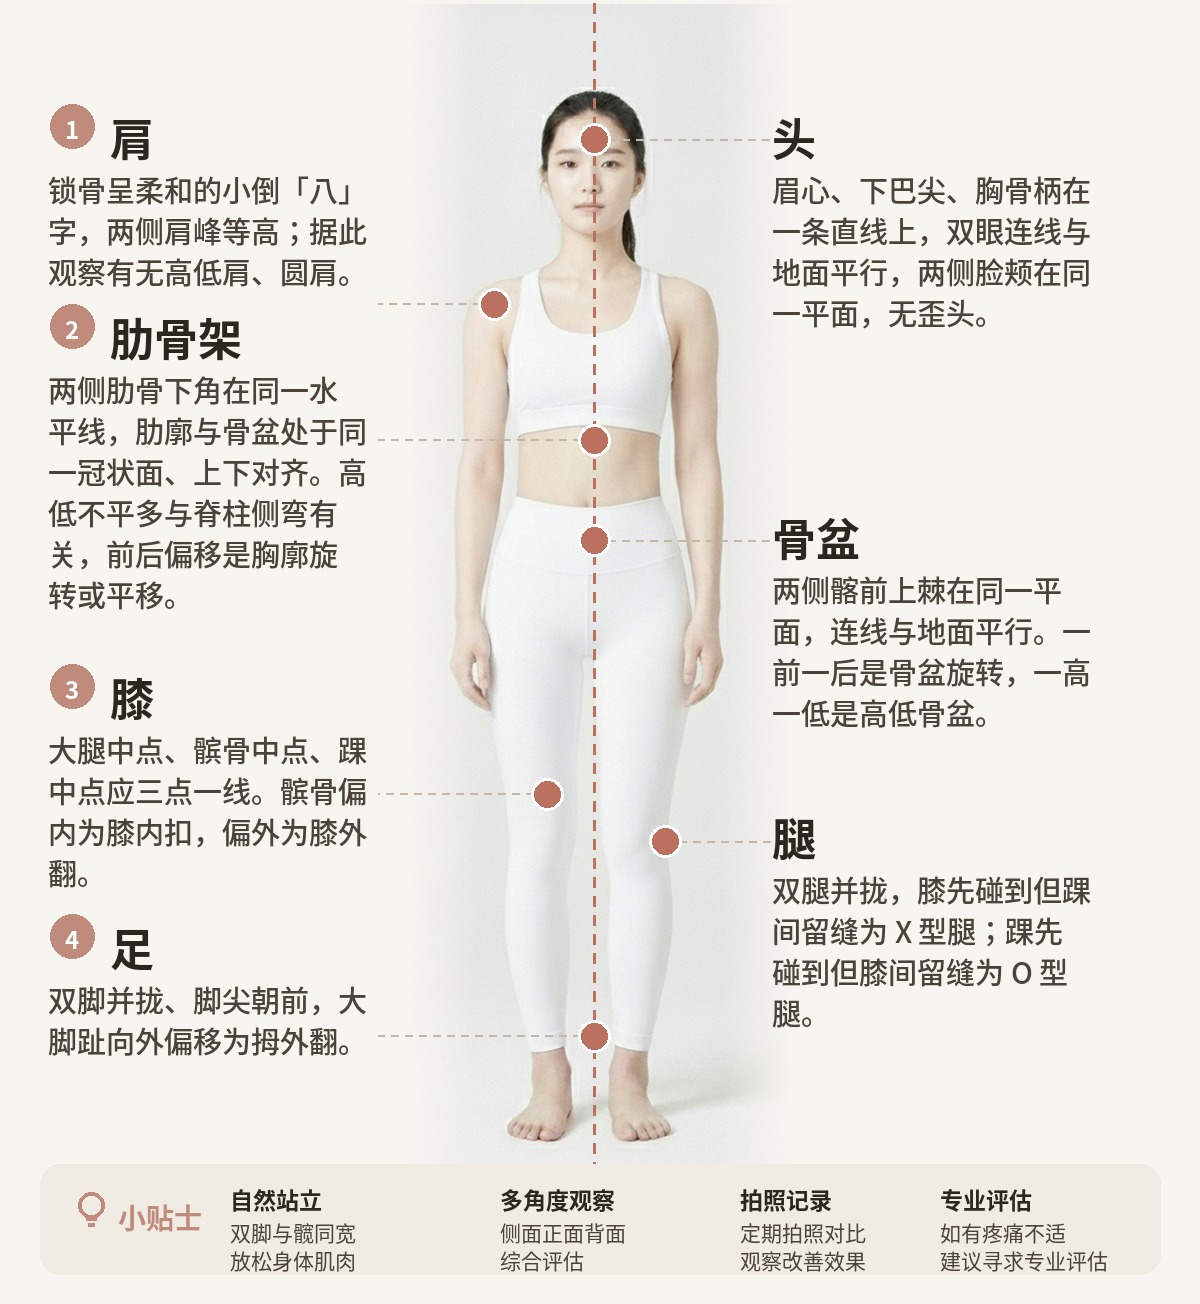
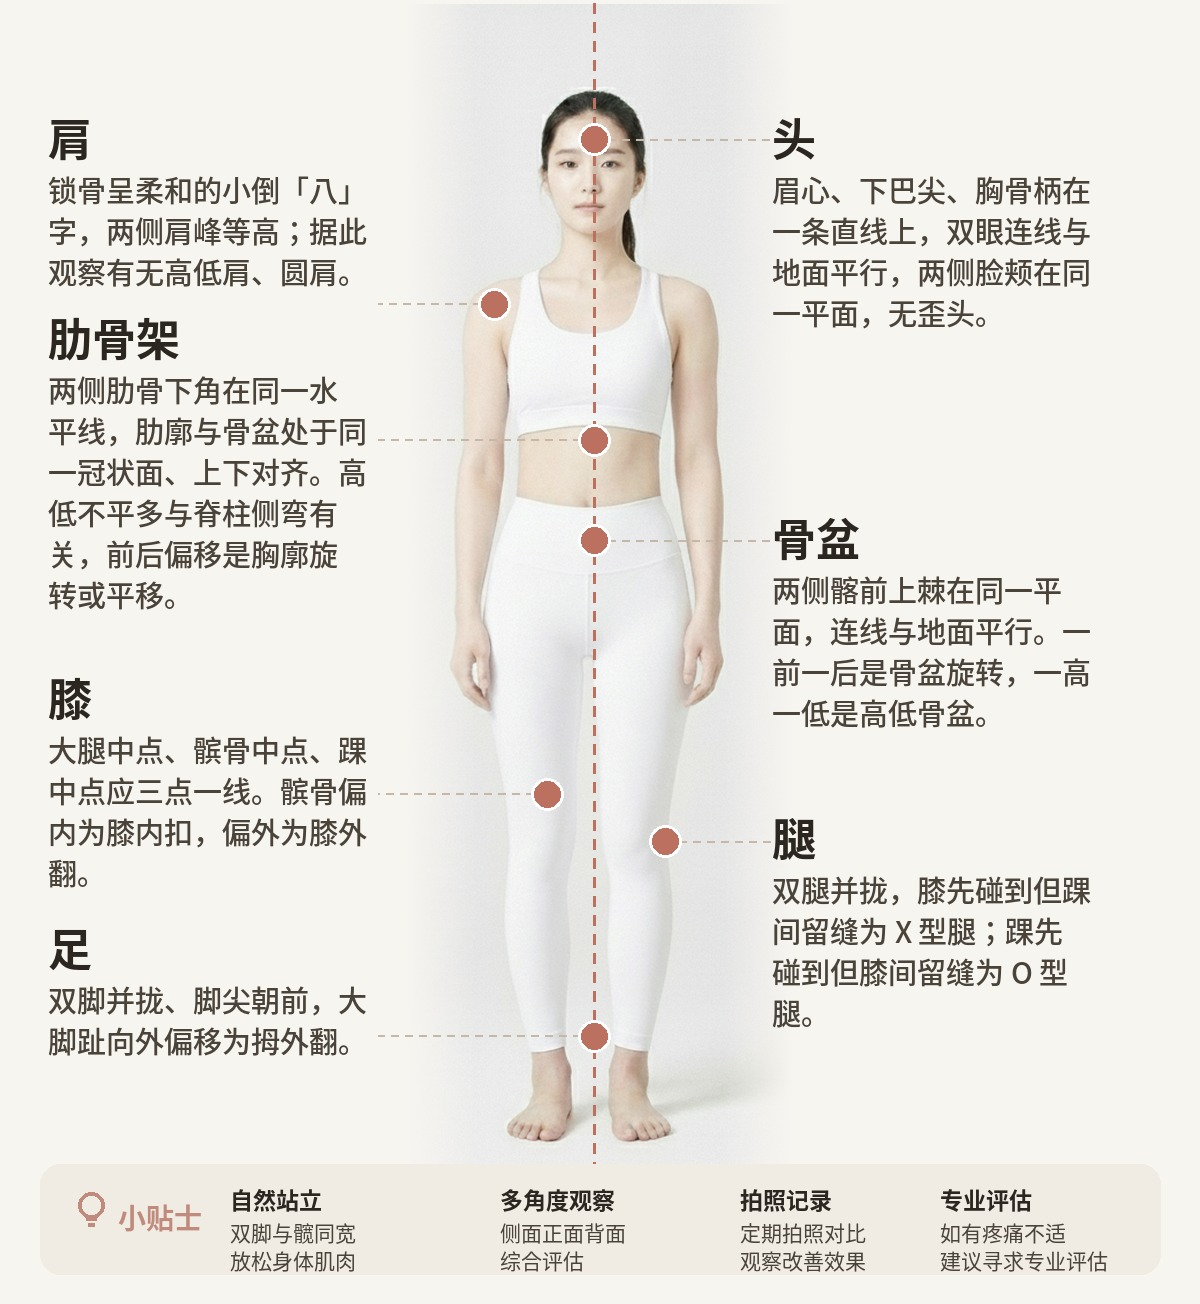
正面：去掉卡片序号
Claude-Session: https://claude.ai/code/session_01Nkdaws1GkKoqKvowGcGT1f

diff --git a/backend/tools/make_pose_posters.py b/backend/tools/make_pose_posters.py
@@ -183,10 +183,10 @@ if __name__ == "__main__":
             "foot":(0.490,0.875),
         },
         left_cards=[
-            (1,"shoulder","肩",["锁骨呈柔和的小倒「八」","字，两侧肩峰等高；据此","观察有无高低肩、圆肩。"]),
-            (2,"ribs","肋骨架",["两侧肋骨下角在同一水","平线，肋廓与骨盆处于同","一冠状面、上下对齐。高","低不平多与脊柱侧弯有","关，前后偏移是胸廓旋","转或平移。"]),
-            (3,"knee","膝",["大腿中点、髌骨中点、踝","中点应三点一线。髌骨偏","内为膝内扣，偏外为膝外","翻。"]),
-            (4,"foot","足",["双脚并拢、脚尖朝前，大","脚趾向外偏移为拇外翻。"]),
+            (None,"shoulder","肩",["锁骨呈柔和的小倒「八」","字，两侧肩峰等高；据此","观察有无高低肩、圆肩。"]),
+            (None,"ribs","肋骨架",["两侧肋骨下角在同一水","平线，肋廓与骨盆处于同","一冠状面、上下对齐。高","低不平多与脊柱侧弯有","关，前后偏移是胸廓旋","转或平移。"]),
+            (None,"knee","膝",["大腿中点、髌骨中点、踝","中点应三点一线。髌骨偏","内为膝内扣，偏外为膝外","翻。"]),
+            (None,"foot","足",["双脚并拢、脚尖朝前，大","脚趾向外偏移为拇外翻。"]),
         ],
         right_cards=[
             (None,"head","头",["眉心、下巴尖、胸骨柄在","一条直线上，双眼连线与","地面平行，两侧脸颊在同","一平面，无歪头。"]),
